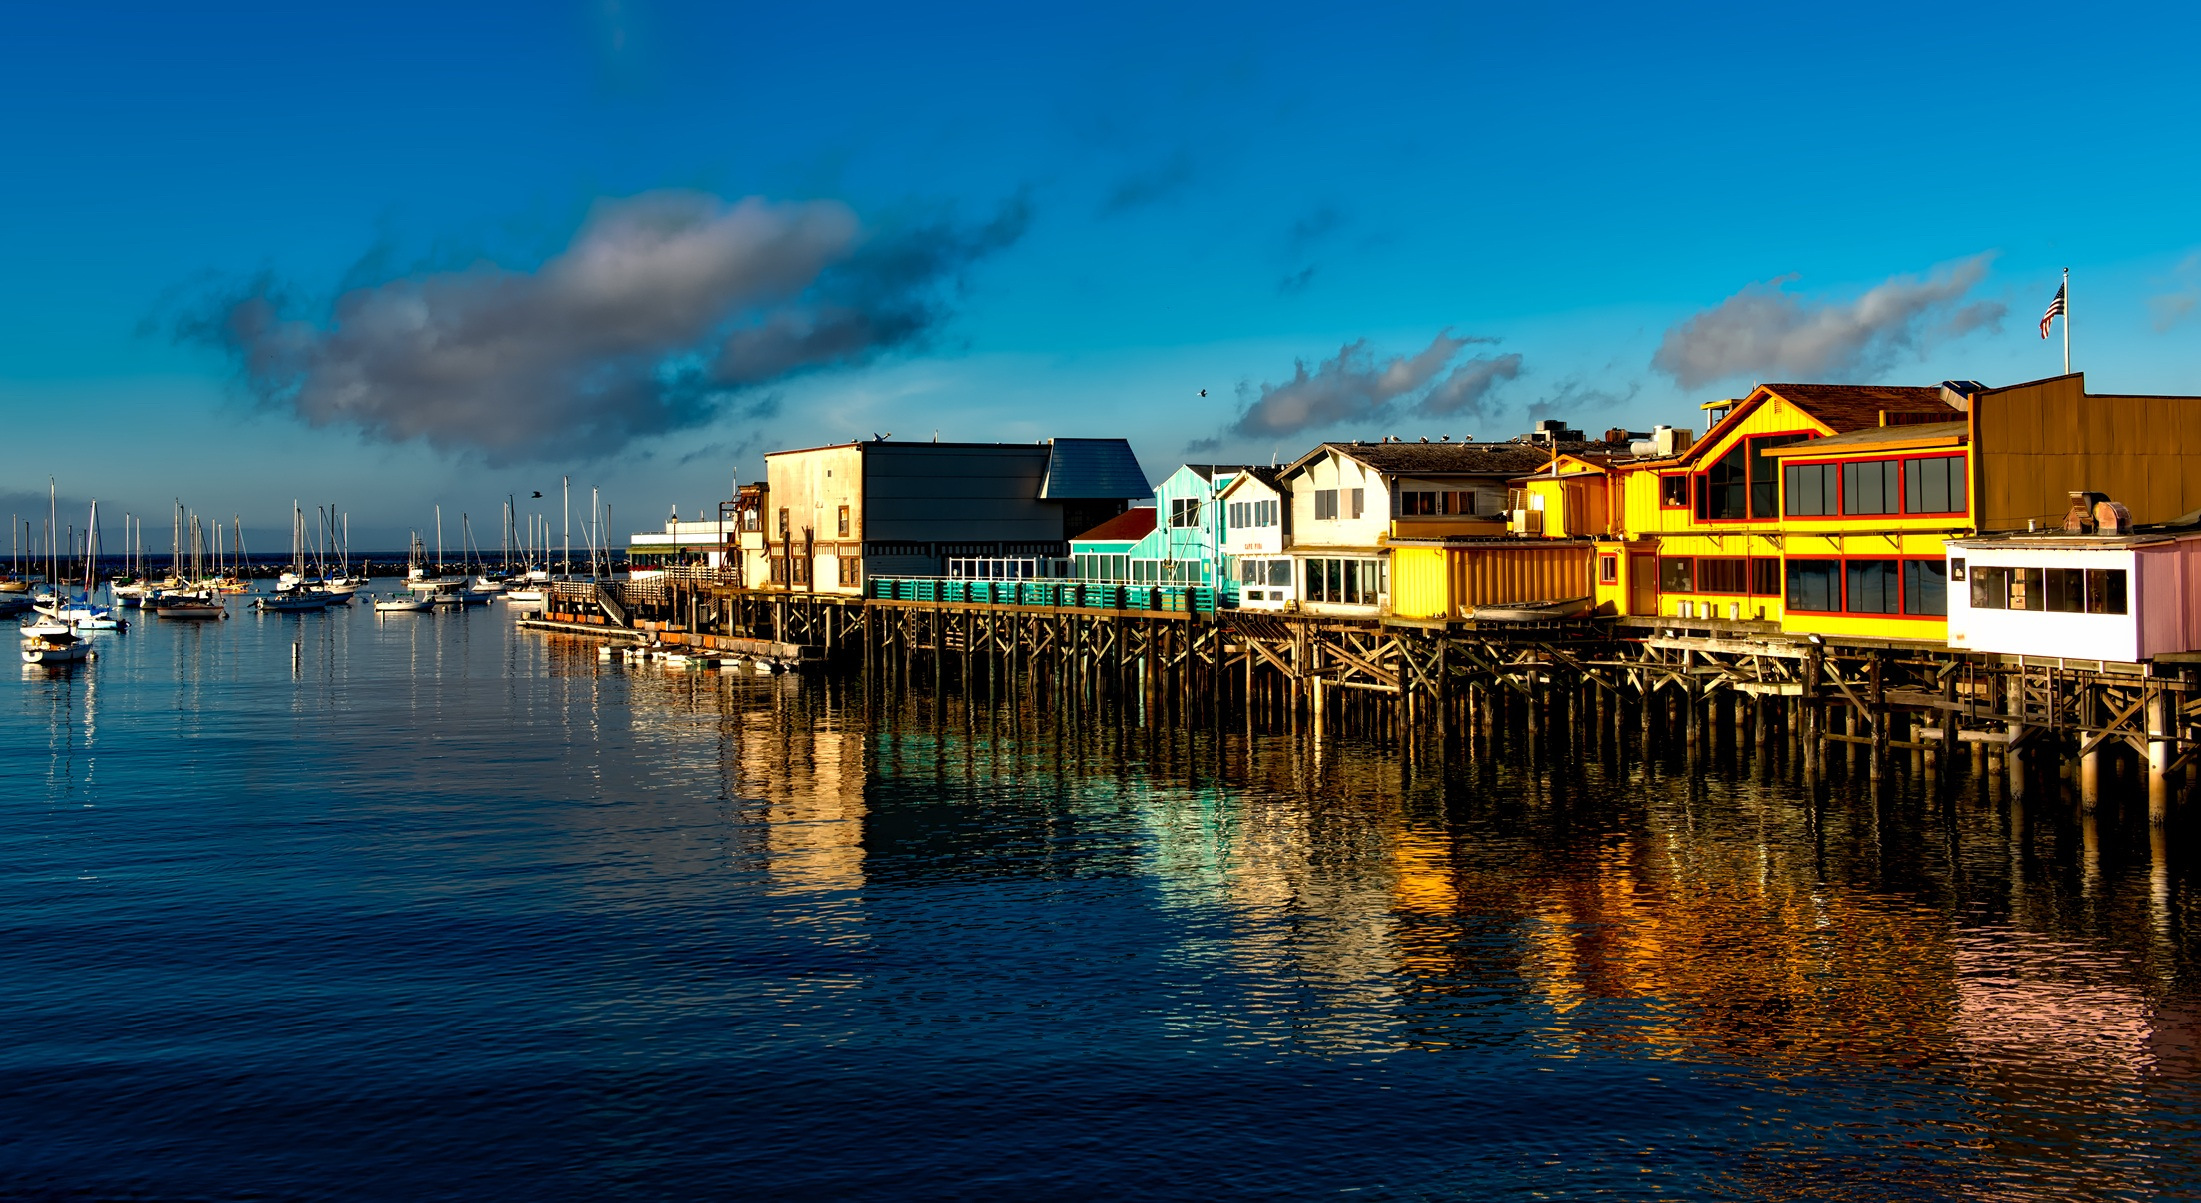
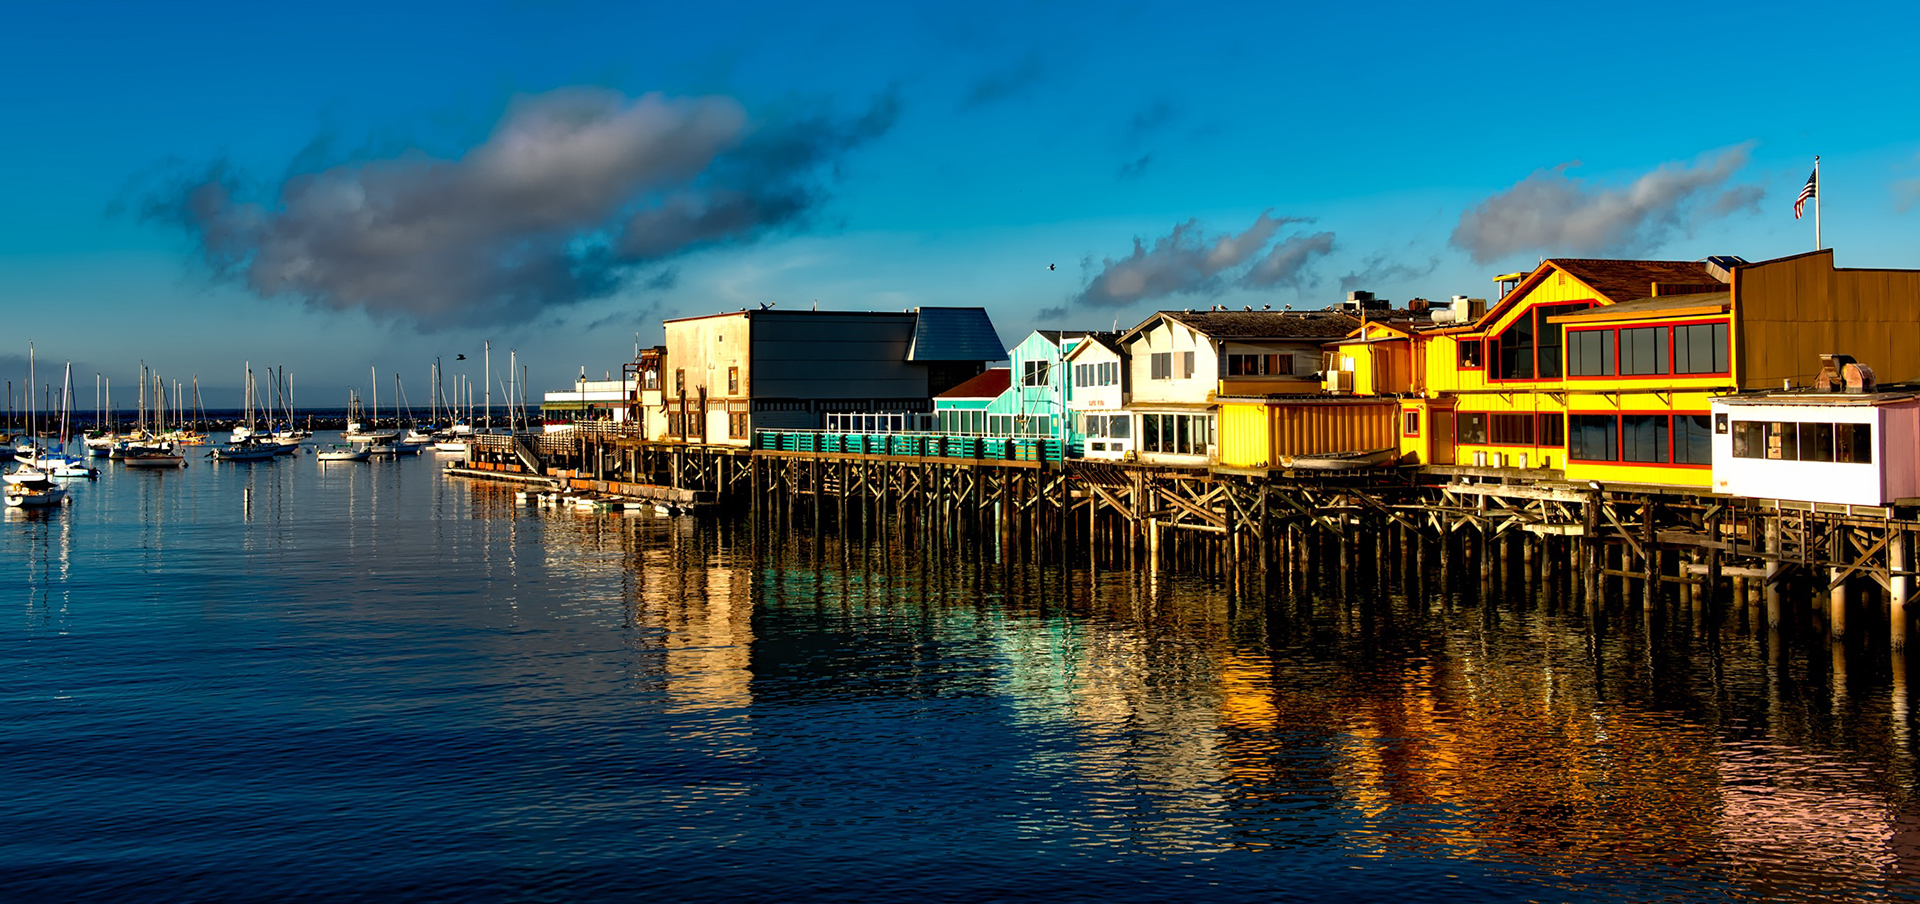
made all images same height on carousel

diff --git a/index.html b/index.html
@@ -73,7 +73,7 @@
 			<!-- carousel images -->
 			<div class="carousel-inner">
 				<div class="item active">
-					<img alt="Fun times at Queen City Marina" src="http://www.trbimg.com/img-5706a9a3/turbine/la-fi-hy-henrik-fisker-boat-20160404">
+					<img alt="Fun times at Queen City Marina" src="images/slider1.jpg">
 				</div>
 				<div class="item">
 					<img alt="Fun times at Queen City Marina" src="images/slider2.jpg">
